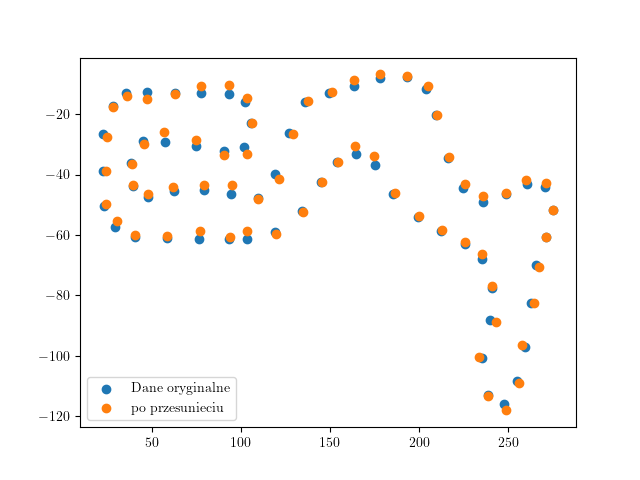
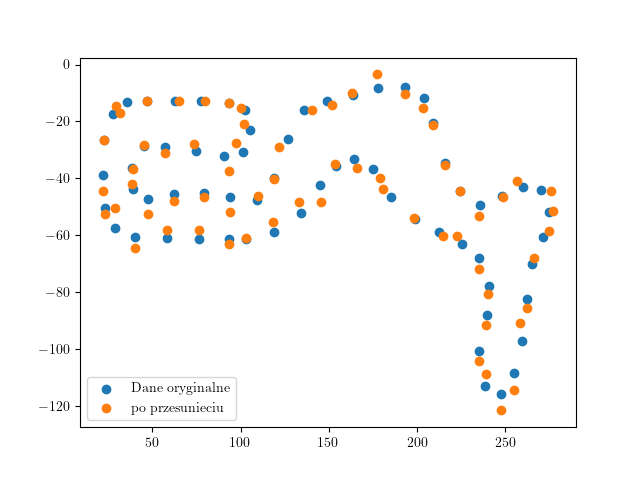
Changed the way waypoints are calculated Now waypoints are represented by a number w in [-width/2, width/2] Results are not good, maybe a little better than before, because I corrected one thing - the positive values of random numbers are at one side of the track, I think that helps with learning gp

diff --git a/src/trajectory.py b/src/trajectory.py
@@ -37,6 +37,7 @@ class Trajectory:
         self.velocity = None
         
         # for Bayesian
+        self.direction_vector = track.diffs
         self.length = track.length
         self.mid_waipoints = track.mid_controls
         self.widths = track.widths
@@ -106,31 +107,21 @@ class Trajectory:
         
         return self.lap_time()
     
-    def move_xy_by_distance(self, spline, x, y, distance):
+    def move_xy_by_distance(self, x, y, distances):
         """Get x y coordinates after moving wayponts in the direction normal to self.path_middle"""
-        # tck is already the spline representation (t, c, k)
-    
-        # 1. Find the closest point on the spline to (x, y)
-        def distance_to_point(t):
-            xt, yt = splev(t, spline)
-            return np.sqrt((xt - x) ** 2 + (yt - y) ** 2)
         
-        res = minimize_scalar(distance_to_point, bounds=(0, 1), method='bounded')
-        t_closest = res.x
+        new_x_a = []; new_y_a = []
         
-        # 2. Calculate the normal to the spline at this point
-        dx, dy = splev(t_closest, spline, der=1)
-        tangent = np.array([dx, dy])
-        tangent /= np.linalg.norm(tangent)
-
-        # Normal vector is perpendicular to the tangent vector
-        normal = np.array([-tangent[1], tangent[0]])
-
-        # 3. Move the point (x, y) by the given distance in the normal direction
-        new_x = x + distance * normal[0]
-        new_y = y + distance * normal[1]
+        for i, d in enumerate(distances):
+            new_x = x[i] + distances[i] * self.direction_vector[0][i]
+            new_y = y[i] + distances[i] * self.direction_vector[1][i]
             
-        return new_x, new_y
+            new_x_a.append(new_x); new_y_a.append(new_y)
+            
+            
+        # print(new_x_a, new_y_a)
+        return new_x_a, new_y_a
+        
     
     def expected_improvement(self, x, gp, tau_best, n_params):
         x = x.reshape(-1, n_params)
@@ -168,8 +159,8 @@ class Trajectory:
         
         x_mid = self.mid_controls_decongested[0] #self.mid_waipoints[0]
         y_mid = self.mid_controls_decongested[1] #self.mid_waipoints[1]
-        widths = self.widths_decongested#[w/2 for w in self.widths_decongested] #self.widths
-        print(f"ilosc punktow do spline: {len(widths)} szerokości na trasie: {widths}")
+        widths = [w/2 for w in self.widths_decongested] #self.widths
+        # print(f"ilosc punktow do spline: {len(widths)} szerokości na trasie: {widths}")
         n = len(widths)
         
         # print(self.widths)
@@ -180,24 +171,18 @@ class Trajectory:
             """Randomly sample a new trajectory parametrized by waypoints"""
             new_x_list = []; new_y_list = []
             distance_w_list = []
-            #the bigger s, the more smooth spline is, 0 means spline goes through every point
-            tck, u = splprep([x_mid, y_mid], s=0)
-            # print(len((self.mid_waipoints[0])))
-            # print(len(self.widths))
-            for i in range (len(x_mid)):
-                # random distance to move track in the normal direction
-                distance = np.random.uniform(0,0.99) * widths[i] / 2
-                distance_w_list.append(distance)
-                
-                x_new, y_new = self.move_xy_by_distance(tck, x_mid[i], y_mid[i], distance)
-                new_x_list.append(x_new)
-                new_y_list.append(y_new)
+                           
+            # random distance list to move track in the normal direction
+            distance_w_list = [np.random.uniform(-0.5,0.5) * widths[i]/2 for i in range(len(x_mid))]
+            
+            print("zew petla iteracja nr: ", j)    
+            new_x_list, new_y_list = self.move_xy_by_distance(x_mid, y_mid, distance_w_list)
+            
+            print(len(new_x_list), len(new_y_list))
                 
             plt.figure(); plt.scatter(x_mid, y_mid, label='Dane oryginalne')
             plt.scatter(new_x_list, new_y_list, label='po przesunieciu')
-            plt.legend()
-            # plt.show()
-            plt.savefig(f'img/mid_after_decongested_{j}.png')
+            plt.legend(); plt.savefig(f'img/mid_after_decongested_{j}.png')
             
             # Step 4: Compute min time to traverse using Algorithm 1
             lap_time = self.calcMinTime((new_x_list, new_y_list))
@@ -230,9 +215,7 @@ class Trajectory:
             # Step 12: Compute min time to traverse τ* using Algorithm 1
             # Also make sure we are in global x,y coordinates, not in widths coordinates
             x_star_list = []; y_star_list = []
-            for i in range (len(x_mid)):
-                x_star, y_star = self.move_xy_by_distance(tck, x_mid[i], y_mid[i], w_star[i])
-                x_star_list.append(x_star); y_star_list.append(y_star)
+            x_star_list, y_star_list = self.move_xy_by_distance(x_mid, y_mid, w_star)
             tau_star = self.calcMinTime((x_star_list, y_star_list))
             
             print(f"tau best: {tau_best} tau star: {tau_star}")
@@ -253,9 +236,7 @@ class Trajectory:
                 print(f"czasy trajektorii: {y_train}")
                 
         x_star_list = []; y_star_list = []
-        for i in range (len(x_mid)):
-            x_star, y_star = self.move_xy_by_distance(tck, x_mid[i], y_mid[i], w_best[i])
-            x_star_list.append(x_star); y_star_list.append(y_star)
+        x_star_list, y_star_list = self.move_xy_by_distance(x_mid, y_mid, w_best)
             
             
         self.best = (x_star_list, y_star_list)

diff --git a/src/track.py b/src/track.py
@@ -28,10 +28,13 @@ class Track:
         # Taking every 5th control point
         self.mid_controls_decongested = [[], []]
         self.widths_decongested = []
+        self.diffs_decongested = [[], []]
         
         for i in range(0, len(self.mid.controls[0]), 2):
             self.mid_controls_decongested[0].append(self.mid.controls[0][i])
             self.mid_controls_decongested[1].append(self.mid.controls[1][i])
+            self.diffs_decongested[0].append(self.diffs[0][i])
+            self.diffs_decongested[1].append(self.diffs[1][i])
             self.widths_decongested.append(self.widths[i])
         #########################################################
     
@@ -59,3 +62,10 @@ class Track:
             alphas = np.append(alphas, alphas[0])
         i = np.nonzero(alphas != -1)[0]
         return self.left[:, i] + (alphas[i] * self.diffs[:, i])
+    
+    def control_points_bayesian(self, alphas):
+        """Translate alpha values to control point coordinates."""
+        if self.closed:
+            alphas = np.append(alphas, alphas[0])
+        i = np.nonzero(alphas != -1)[0]
+        return self.left[:, i] + (alphas[i] * self.diffs_decongested[:, i])
